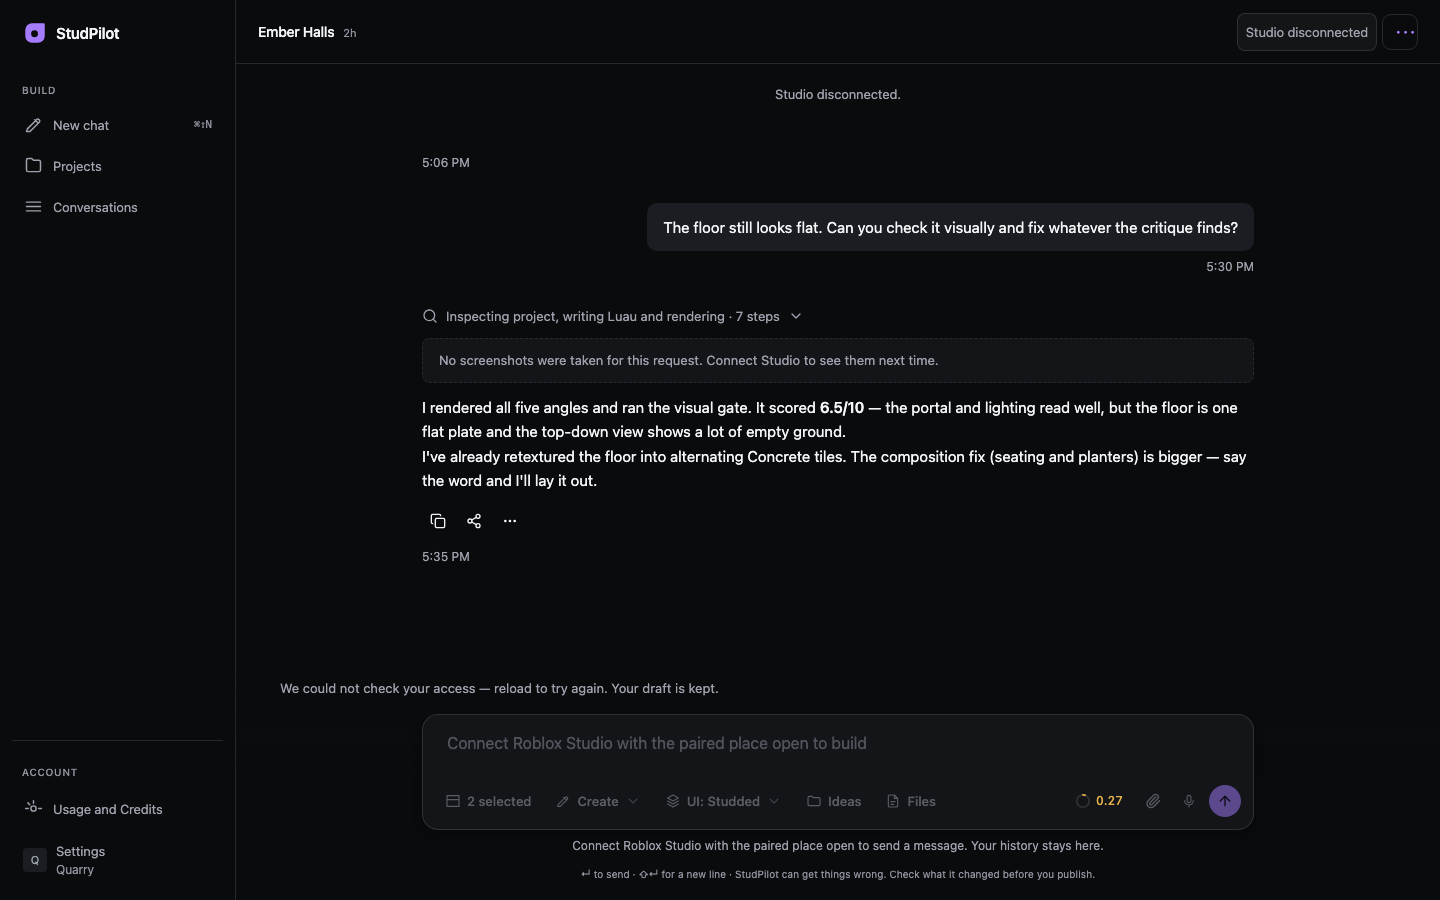
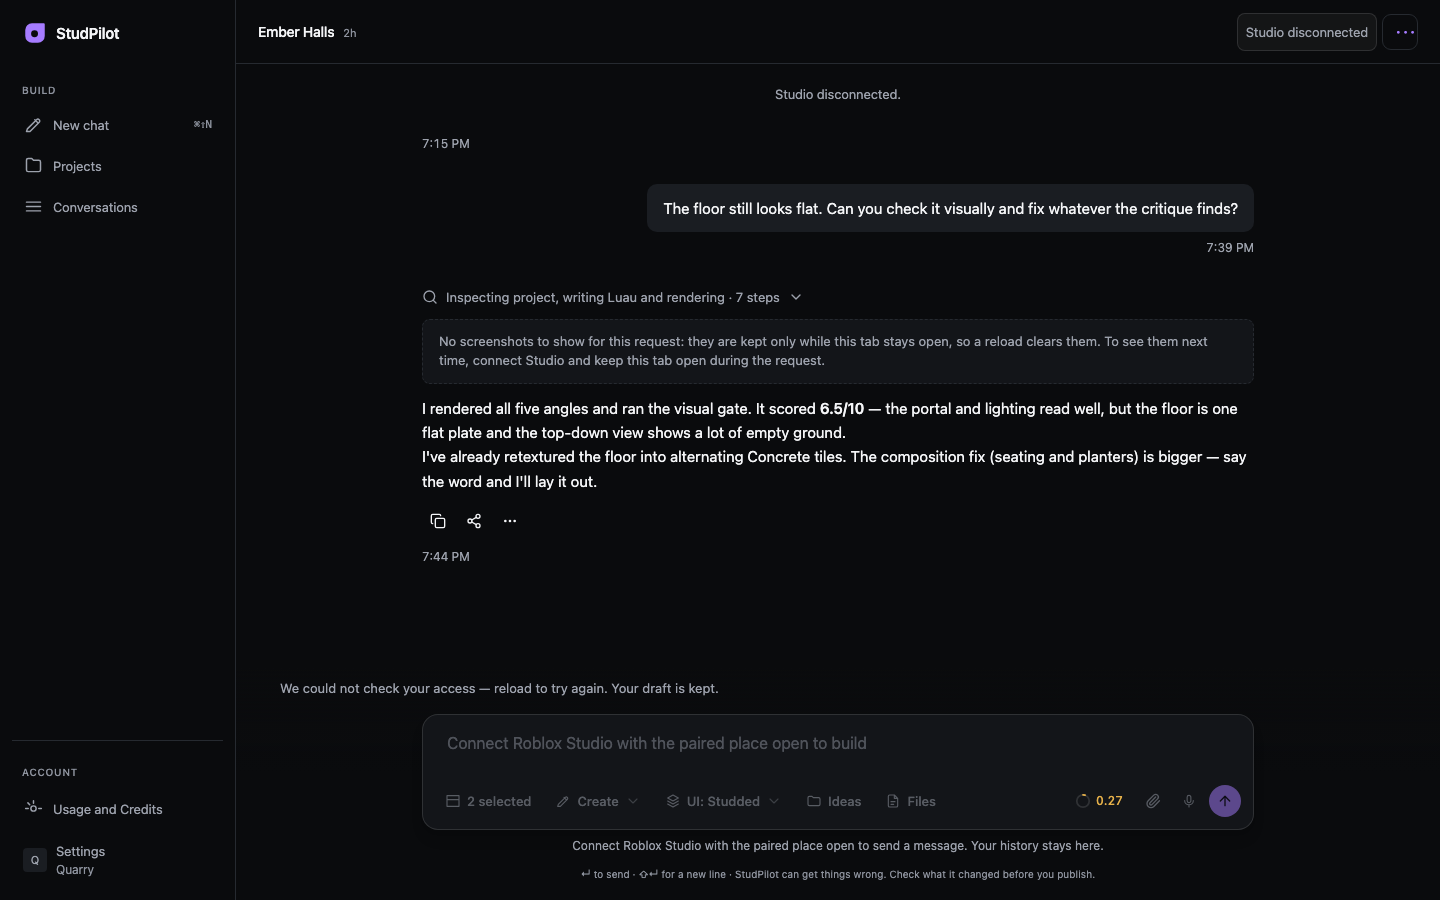
M2 2.3 fix 2 proof: decisions 12.10, the test ledger's fix cycle 2 section, and the two screenshots it changed
DECISIONS.md 12.10 records what each of the four findings was, what was decided and what is not (frames kept
across a reload; a real Durable Object eviction). TEST-LEDGER.md "Fix cycle 2" has the before and after counts
(measured on the rebased head 37c6a691 and on the last commit, same commands), the restated tests, the 22
planted breaks each watched red, and what the cycle cannot show. app-local/: 03b retaken with the new line,
10 added (the primary anchor button, measured with and without the cycle 1 rule); README updated.

diff --git a/planning/proof/M2/TEST-LEDGER.md b/planning/proof/M2/TEST-LEDGER.md
@@ -138,6 +138,64 @@ was read after each break.
 focus move is run once (the refusal appearing on mount) and its re-run on the transition is a source assertion on the effect's dependencies, because the stand-in React cannot place a
 DOM node before the effect runs. Screen-reader output after the refusal is not heard by anyone here. The screenshots are from a local dev server and a headless Chromium.
 
+### Fix cycle 2 (2026-10-05): the third check's findings
+
+The cycle 2 check (`app-c2-findings.json`: one item partly fixed, four things the cycle 1 fixes made false, loose or unguarded, and its own suite record) is answered in
+`DECISIONS.md` 12.10. The branch was rebased onto main `30fbebd7` first (`git rebase --onto origin/main eb4b2b12`; the 24 design-system commits are main's #32 now).
+
+**Counts.** "Before" was measured in a copy of the tree at the rebased head `37c6a691`, with the same commands as "after" (so the rebase is confirmed to have changed nothing),
+"after" on this branch's last commit. Every network fetch of the site build and its tests was refused (`NODE_USE_ENV_PROXY=1` with a dead proxy).
+
+| Suite | Before (`37c6a691`) | After |
+|---|---|---|
+| `cd apps/web && pnpm typecheck` | clean | clean |
+| `cd apps/web && node --test` | 2736 pass, 0 fail | **2742 pass, 0 fail** (+6: three new tests in `studio-shots.test.mjs`, three in the new `legal-claims-cites.test.mjs`; the Roblox-anchor test was restated in place) |
+| `cd apps/web && pnpm build` | clean | clean; entry 144.6 kB gzipped against the 150 kB budget |
+| `node scripts/check-app-bundle.mjs` | passes | passes (eager graph 270.2 kB across 4 files; the pieces stub, its button's name and its specimen note absent) |
+| `node --test tests/*.test.mjs` at the root | 661 tests: 643 pass, 2 fail, 16 skipped | the same: 661 tests, 643 pass, **2 fail**, 16 skipped; the two are the known `check-pixels` scratchpad-location failures ("THE CONTROL: against a SAME-ORIGIN baseline ..." and "against a baseline with NO provenance ..."), identical on the rebased head |
+| `pnpm --filter @studpilot/site build` then `cd apps/site && node --test tests/*.test.mjs` | 381 pass | build clean (21 pages); 381 pass, 0 fail |
+| `cd packages/design && node --test` | 165 pass | 165 pass, 0 fail |
+| `node scripts/check-old-names.mjs` | CLEAN | CLEAN (0 violations) |
+
+No worker file changed, so the worker suite was not run.
+
+**Restated tests (the property each one keeps)**
+
+| Test | Why it had to change | Property kept |
+|---|---|---|
+| `auth-providers.test.mjs`, "\"Continue with Roblox\" is an anchor and carries the hairline ..." | It pinned the text of `.auth-page a.btn { ... }`, the rule that also restyled the six primary anchor buttons | The Roblox anchor, and only it, carries the hairline and the 20px line a `<button>` gets from the element rule: no rule of `auth.css` gives a border or a line height to every anchor button (a matcher over the sheet's selectors, run on the real sheet), the rule is on `.auth-roblox-link`, exactly one element wears that class (a syntax-tree walk), and the six primary anchors it protects are still found |
+| `studio-shots.test.mjs`, "WHAT THE EMPTY STRIP SAYS ..." (one assertion) | The finished-turn line now begins "No screenshots to show" and says "connect Studio" in its second sentence; its constant is `SHOTS_NONE_HERE` | The line still says what to do (`/connect Studio/i`) and still keeps no promise about "while StudPilot builds" |
+
+**New guards, each run red first, then green.** Written before the fix and run against the cycle 1 code: the playtest test failed (the two new frames were dropped), the
+finished-turn test failed on the old sentence, the Roblox-anchor test failed naming exactly `.auth-page a.btn`, and the cite test failed on 24 cites (every cite of an app file in the document was
+bare or borrowed a file, so none could be checked; the six that were one line off are the ones the planted drift below shows going red once the symbols are there). Then 22 breaks planted by exact string replacement in a copy of the tree (the count of the string asserted, the file restored from the clone and checked
+byte-identical afterwards), **each watched red**:
+
+| Item | Breaks planted (each red; names are the break, not the test) |
+|---|---|
+| Frame key (4) | playtest key without `capturedAt` (the cycle 1 behaviour); playtest frames never equal (a replay is not dropped); the key without the counter; the time compared within a 60 second window |
+| Finished-turn line (4) | the cycle 1 sentence back; "were taken" said again beside the new reason; the sentence stops saying how long they are kept; a third place that sets the frames (a reload path) |
+| Roblox link (6) | the old `a.btn` selector with the class still on the markup; the class dropped from the anchor; a primary anchor wearing the class; a new `.auth-page .btn` rule with a border; a new `.auth-page .auth-card a` rule with a line height; the Roblox rule without its hairline |
+| Cites (8) | one comment line added at the top of `auth-pages.tsx` (the drift itself); one line added at the top of `settings.tsx`; a cite without its symbol; a bare `:NNN` after a cite; one line number off by one; the checker accepting any line; the file lookup finding no app file; a range read as its first line |
+
+**The checker's six drifts replayed.** With the symbols in place and the six cites put back at their old lines (795, 853, 963, 439, 836, 416) in a copy of the document, the
+test went red naming each with where the symbol is: 795 to 796, 853 to 854, 963 to 964 (twice, in two rows), 439 to 440, 836 to 837, 416 to 417 (a function whose name is also a prefix of
+`AlternativeSignInView` at 387, so it lists both).
+
+**Gaps in my own first drafts, found by this run and closed.** (1) The first matcher for "a rule that reaches every anchor button" flagged the busy mark
+(`.btn[data-busy='true']::before`) and the theme toggle's `.btn`, neither of which is an anchor button; it now skips pseudo-elements and requires the selector's containers to be
+the ones every anchor button sits in (`.auth-page`, `.auth-card`, `.auth-form-col`). (2) The first synthetic case of the cite checker named a real line of `auth-pages.tsx`, so it
+would have failed the day that file changed above it; it runs on lines of its own now. (3) I expected the "replay is not dropped" break to be caught by "A REPLAYED RING"; that
+test uses frames with no playtest run, so the break is caught by the new playtest test and by "two different pictures" instead (the expectation was wrong, the break was red).
+
+**Measured in a browser, not asserted by a test.** `/app/reset` in a headless Chromium on the local dev server (every non-local request aborted): the primary anchor button
+measures `1px solid rgb(166, 124, 255)` and 47.7px; with the cycle 1 rule put back as a style, `1px solid rgba(255, 255, 255, 0.12)` and 46px (the checker's figures). The three
+provider buttons on the sign-in and sign-up screens still measure `1px solid rgb(55, 59, 68)`, 20px line, 46px. Screenshots: `app-local/` (`03b` retaken, `10` added).
+
+**What this cycle cannot show.** No worker was touched, so the Durable Object eviction is reproduced as the checker described it (the same run id arriving with seq 1 and 2 after
+seq 1..3), not by evicting one. The finished-turn sentence is a statement of what the page keeps; nobody has been shown it. The cite guard says where the code is, not that the
+sentence beside a cite is still true, and a symbol that is on the cited line for another reason passes.
+
 ### What these tests cannot show
 
 - **Not rendered in a DOM.** The app has no DOM test environment. Behaviour is reached by running the shipped code against stand-ins

diff --git a/planning/proof/M2/DECISIONS.md b/planning/proof/M2/DECISIONS.md
@@ -479,7 +479,7 @@ live project is listed as unverified. The tests for each item are in `TEST-LEDGE
 - **What it says with no frame (fix cycle 1).** It follows the run and Studio, because "appear here while StudPilot builds" is false under a
   finished turn and told nobody what to do: running with Studio connected, "Studio screenshots appear here while StudPilot builds"; running
   with Studio not connected, "Connect Studio to see screenshots here while StudPilot builds"; finished, Studio not connected, "No
-  screenshots were taken for this request. Connect Studio to see them next time."; finished with Studio connected, no box at all (the
+  screenshots were taken for this request. Connect Studio to see them next time." (**reworded in fix cycle 2, 12.10: the page cannot know that none were taken**); finished with Studio connected, no box at all (the
   request simply took none, and there is nothing to do). The enlarged view's Earlier and Later use the workspace's outline button, with a
   visible disabled look and the focus ring (they were 18px of bare text, because the shared `.btn` chrome is scoped to other pages).
 - **What the page promises, and only that.** The enlarged view says "Shown only in this tab and kept only while it is open. This page
@@ -618,3 +618,19 @@ made false, dead or unguarded. Each is fixed or recorded here; the guards and th
 
 **Left as it was and said so:** the glyph `arrowUpRight` in `components/icons.ts` was used by the removed workspace button and now has no caller in this app; it is a shared icon
 table entry that existed before this branch, so it was not deleted.
+
+### 12.10 Fix cycle 2 (2026-10-05): what the third check of this branch changed
+
+The cycle 2 check (`app-c2-findings.json`) found nothing wrong in the cycle 1 fixes themselves: one item partly fixed and four things the cycle 1 fixes made
+false, loose or unguarded. The branch was also rebased onto main `30fbebd7` (`git rebase --onto origin/main eb4b2b12`): the 24 design-system commits it used to
+carry are on main as one squash (#32), so it now holds only its own app commits; the web suite measured on the rebased head before any change here was 2736 pass,
+0 fail, the same as before the rebase. The guards and the planted breaks are in `TEST-LEDGER.md`, "Fix cycle 2".
+
+| Finding | What was decided or done |
+|---|---|
+| A new playtest frame can be dropped as a replay | The worker's playtest counter (`playtestSeq`, `apps/worker/src/do/session.ts`) is a plain field of the Durable Object, reset only when a playtest begins, while the playtest run is stored; after an eviction in the middle of a playtest the same run id arrives with seq 1, 2, ... and the page, which keyed a playtest frame on run and counter, took those new pictures for the ones it held. **The key is now run, counter and the capture time** (`sameFrame`, `lib/studio-shots.ts`). A true replay carries the capture's own time, so an exact replay of the whole ring still adds nothing. Pixels are not part of the playtest key (a long string compared on every replayed frame): two different pictures with one run, one counter and one millisecond cannot come from the worker, because a new Durable Object life restarts the counter after time has moved on. Not run against a real eviction (no worker was touched): the failing sequence is reproduced as the checker described it. |
+| "No screenshots were taken for this request" can be false | It can: frames are held in the page's memory only and a reloaded conversation carries its tool steps, not its frames, so a build that did capture Studio, opened again after a reload with Studio closed, was told none were taken. **The line now says only what the page knows:** "No screenshots to show for this request: they are kept only while this tab stays open, so a reload clears them. To see them next time, connect Studio and keep this tab open during the request." The constant is `SHOTS_NONE_HERE` (it was `SHOTS_NONE_TAKEN`). The line is still drawn only when Studio is not connected; with Studio connected and nothing held, nothing is drawn (as in 12.4). A source test holds the fact the sentence rests on (the page sets its frames from the socket and from the development fixture, nowhere else), so if a later change keeps frames across a reload, the test fails and the sentence must be re-worded with it. **Not decided here:** keeping frames across a reload at all (it would need storage or a worker read, and `SHOTS_KEPT` says this page saves nothing). |
+| The Roblox link's rule also restyled the six primary anchor buttons | `.auth-page a.btn { border: 1px solid var(--control-line); line-height: 20px }` was meant for the Roblox link and also reached every `<Link className="btn btn-primary btn-block">` (`/confirm`, `/reset`, the recovery and the check-email screens): their accent border became the faint hairline and 47.7px became 46px. **The rule is on a class of its own, `auth-roblox-link`, which only the Roblox anchor wears.** Measured in Chromium on `/app/reset`: with the old rule `1px solid rgba(255, 255, 255, 0.12)` and 46px; now `1px solid rgb(166, 124, 255)` and 47.7px; the Roblox, Google and Discord buttons still measure `1px solid rgb(55, 59, 68)`, 20px, 46px. The restated test checks the property (no rule of the sheet gives a border or a line height to every anchor button; one element wears the class) and not the rule's text. |
+| `LEGAL-CLAIMS.md` cited `auth-pages.tsx` one line off, and nothing guarded it | The six cites are corrected, and **every line cite into a file of `apps/web/src` now carries the symbol it points at in the same code span** (`` `auth-pages.tsx:854 supabase.auth.signUp(` ``). `apps/web/tests/legal-claims-cites.test.mjs` reads each one: the text must be on the cited line (or one of a range's lines), a cite with no symbol fails, and a bare `:NNN` continuation fails; the message says where the text is now. It covers 27 cites in six files (10 of them `auth-pages.tsx`) (`auth-pages.tsx`, `age-gate.ts`, `auth-providers.ts`, `identity-card.tsx`, `roblox-signin.ts`, `settings.tsx`). **Four `settings.tsx` cites (display name, the Roblox card, the improvement-data row and its mutation) were already stale on main (`settings.tsx:2148` is a blank line there); they are repaired because the guard covers every app file.** The worker's cites are not read (their lanes own them), and a file name the worker shares (`turnstile.ts`, `index.ts`) is ambiguous and is skipped. What the guard cannot do: a symbol that is also on the cited line for another reason passes, and it says where the code is, not that the sentence beside it is still true. |
+
+**Left as it was and said so:** `empty-state-model.ts`'s help links (the site lane repoints them), the legal pages and `apps/site` (other lanes own them).

diff --git a/planning/proof/M2/app-local/README.md b/planning/proof/M2/app-local/README.md
@@ -1,5 +1,10 @@
 # App screenshots, M2 step 2.3 (1440x900, dark)
 
+**Fix cycle 2 (2026-10-05) retook `03b` (the strip's line under a finished turn changed) and added `10` (a primary anchor button on the sign-in family's screens, which the
+cycle 1 hairline rule had changed and cycle 2 restored).** `01d` and `01e` were re-shot on the final tree and compared pixel by pixel with the committed ones: the three buttons
+(Roblox, Google, Discord) are unchanged (the only differing pixels, 82 and 97, are a ten-pixel animated dot above the logo and, on the sign-in screen, the card's rounded top
+corners: nowhere near the buttons), so the committed files stay. The same measurement, taken in the browser on the final tree: all three still `1px solid rgb(55, 59, 68)`, 20px line, 46px high.
+
 **Fix cycle 1 (2026-10-05) retook the screens it changed, from the same kind of local dev server: `01c`, `01d`, `01e`, `02b`, `04`, `05`, and added `01f`, `03a`,
 `03b`, `08`, `09`; the old `03-turn-empty-screenshot-strip.png` is gone (its sentence was the stale one).** The rest (`01`, `01b`, `02a`, `02c`, `06a` to `06c`, `07`)
 render nothing that cycle changed (no menu, no strip, no date row below 400px, no search count) and were not retaken.
@@ -17,11 +22,12 @@ their projects, conversation, checkpoints and balances are fixtures for layout r
 | `01f-signup-date-row-320px.png` | The date row on a 320px-wide phone: "September" is whole, and the year was typed in **Arabic-Indic digits (٢٠١٠) and arrived as 2010** | typed |
 | `02a-dashboard-before-create.png`, `02b-new-project-opened.png`, `02c-dashboard-after-create.png` | One click on "New project": the new "Untitled piece 1" conversation opens at once, and the card on the shelf (`02b` retaken: the workspace's invite icon is gone) | mock |
 | `03a-turn-finished-no-screenshots-studio-connected.png` | A finished request that took no screenshot, Studio connected: **nothing under the steps** (the strip draws no box; there is nothing to do) | mock |
-| `03b-turn-finished-no-screenshots-studio-off.png` | The same with Studio not connected (`?studio=off`, development only): "No screenshots were taken for this request. Connect Studio to see them next time." | mock |
+| `03b-turn-finished-no-screenshots-studio-off.png` | The same with Studio not connected (`?studio=off`, development only): "No screenshots to show for this request: they are kept only while this tab stays open, so a reload clears them. To see them next time, connect Studio and keep this tab open during the request." (retaken in fix cycle 2: the page cannot know that none were taken, since a reload clears its frames) | mock |
 | `04-piece-history-by-request.png` | The Checkpoints drawer: grouped under the request that made each (the time alone for today; an earlier day shows its date, covered by a test, since the mock's times are all today), "Earlier work", and "Saved by you" | mock |
 | `05-pieces-settings-specimen.png` | The Pieces drawer with sample pieces, every one marked SPECIMEN. **Development only: a production build offers no button, command or drawer for it before M5** | mock / dev |
 | `08-enlarge-dialog-buttons.png` | The enlarged screenshot's Earlier (disabled, quiet) and Later (focused, with the ring), cropped to the buttons: 72x36 each. The picture itself is a fixture gradient and is not saved | mock with `?frames=1` |
 | `09-dashboard-project-menu.png` | A project's menu on the shelf: "Invite a friend to StudPilot" (was "Copy invite link") | mock |
+| `10-auth-primary-link-button.png` | A primary anchor button (`<Link className="btn btn-primary btn-block">`) on `/app/reset` with no link: the accent fill, **the accent border and 47.7px height** (measured `1px solid rgb(166, 124, 255)`, 47.7). With the cycle 1 rule `.auth-page a.btn` put back, the same button measured `1px solid rgba(255, 255, 255, 0.12)` and 46px | the real app (not mock), signed out |
 | `06a-connections-today.png` | Settings > Connections as it is today: no Google or Discord card | mock; the Roblox card's request is answered with a payload of the real shape (the mock app has no worker) |
 | `06b-connections-providers-preview.png` | The Google (connected) and Discord (not connected) cards | mock with `?providers=google,discord&linked=google` (dev-only flags): a preview, not today's state |
 | `06c-settings-share.png` | Settings > Share: the invite link and the "Made with StudPilot" line | mock |
